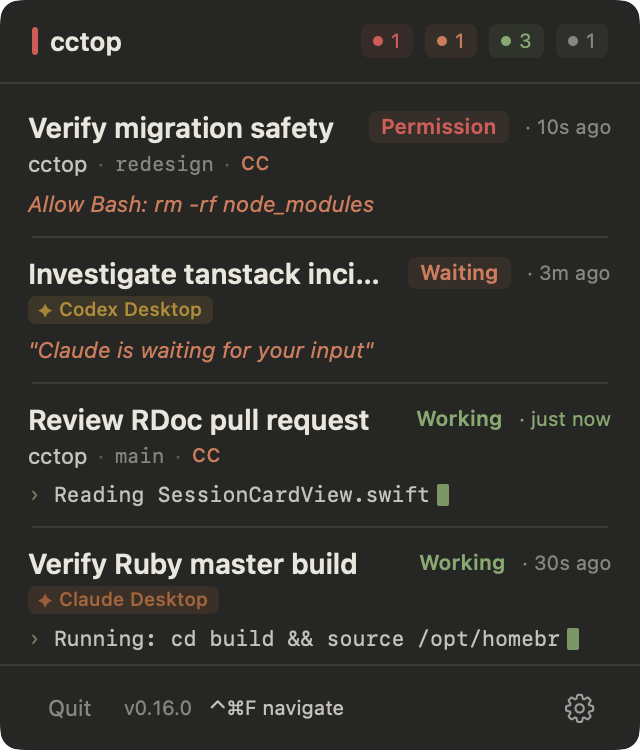
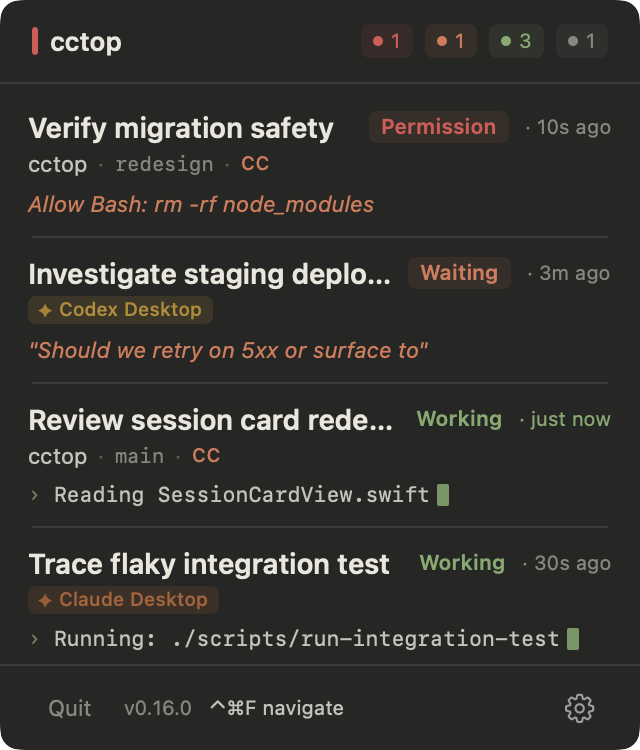
fix(showcase): genericize mock data and align Codex session with what Codex actually emits
A subagent audit caught three classes of problem in the screenshot
fixtures:

1. Real-world references that don't belong in marketing assets:
   - "Investigate tanstack incident" — names TanStack and alludes to a
     real CVE. Replaced with "Investigate staging deploy regression".
   - "Review RDoc pull request" — names Ruby's documentation tool.
     Replaced with "Review session card redesign".
   - "Verify Ruby master build" + chruby command — names Ruby and a
     specific Ruby version manager. Replaced with "Trace flaky
     integration test" and a generic integration-test script.
   - "goal-there-s-a-tanstack-security" project — replaced with
     "billing-api". "dazzling-dirac-0ac413" (reads as a Conductor
     worktree) replaced with "infra-tools".

2. Cross-agent inconsistency on the Codex Desktop session:
   - lastPrompt and notificationMessage were both set to "Claude is
     waiting for your input" — that's Claude Code's Notification hook
     template. The UI renders lastPrompt italicized as the *user's*
     last prompt, so the card was literally showing a Claude system
     message quoted as if the user typed it. Replaced with a plausible
     question that fits the new session name.

3. Wrong tool name on the Codex CLI session:
   - lastTool was "Bash" (Claude Code's name). Codex emits "local_shell"
     for its only tool-tracked event. Switched the mock to match
     reality, and added "local_shell" as an alias of "bash" in
[…]

diff --git a/menubar/CctopMenubar/Models/Session+Mock.swift b/menubar/CctopMenubar/Models/Session+Mock.swift
@@ -157,11 +157,10 @@ extension Session {
         // the pulsing amber "Waiting" pill is paired with the most distinctive
         // Desktop badge.
         var s2 = mock(
-            id: "2", project: "goal-there-s-a-tanstack-security", branch: "main",
-            sessionName: "Investigate tanstack incident",
+            id: "2", project: "billing-api", branch: "main",
+            sessionName: "Investigate staging deploy regression",
             status: .waitingInput,
-            lastPrompt: "Claude is waiting for your input",
-            notificationMessage: "Claude is waiting for your input",
+            lastPrompt: "Should we retry on 5xx or surface to the user?",
             terminal: TerminalInfo(bundleId: "com.openai.codex"),
             source: "codex"
         )
@@ -169,7 +168,7 @@ extension Session {
 
         var s3 = mock(
             id: "3", project: "cctop", branch: "main",
-            sessionName: "Review RDoc pull request",
+            sessionName: "Review session card redesign",
             status: .working, lastTool: "Read",
             lastToolDetail: "/src/SessionCardView.swift",
             source: "cc"
@@ -177,19 +176,22 @@ extension Session {
         // s3.lastActivity is Date() → "just now"
 
         var s4 = mock(
-            id: "4", project: "dazzling-dirac-0ac413", branch: "unknown",
-            sessionName: "Verify Ruby master build",
+            id: "4", project: "infra-tools", branch: "main",
+            sessionName: "Trace flaky integration test",
             status: .working, lastTool: "Bash",
-            lastToolDetail: "cd build && source /opt/homebrew/share/chruby/chruby.sh",
+            lastToolDetail: "./scripts/run-integration-tests.sh --filter staging",
             terminal: TerminalInfo(bundleId: "com.anthropic.claudefordesktop"),
             source: nil
         )
         s4.lastActivity = Date().addingTimeInterval(-30) // "30s ago"
 
+        // lastTool: "local_shell" matches what Codex actually emits (its only
+        // tool-tracked event). formatToolDisplay routes "local_shell" through
+        // the same "Running: ..." rendering as "bash".
         var s5 = mock(
-            id: "5", project: "terraform-infra", branch: "main",
-            status: .working, lastTool: "Bash",
-            lastToolDetail: "terraform plan -out=tfplan",
+            id: "5", project: "deploy-pipeline", branch: "main",
+            status: .working, lastTool: "local_shell",
+            lastToolDetail: "./scripts/deploy.sh --plan staging",
             source: "codex"
         )
         s5.lastActivity = Date().addingTimeInterval(-300) // "5m ago"

diff --git a/menubar/CctopMenubar/Models/Session.swift b/menubar/CctopMenubar/Models/Session.swift
@@ -409,7 +409,10 @@ struct Session: Codable, Identifiable, Equatable {
         guard let detail else { return "\(tool)..." }
         let fileName = URL(fileURLWithPath: detail).lastPathComponent
         switch tool.lowercased() {
-        case "bash": return "Running: \(detail.prefix(30))"
+        // "local_shell" is Codex's equivalent of Claude Code's Bash tool —
+        // route both through the same "Running: ..." formatting so Codex
+        // sessions don't show a raw "local_shell: ..." in the meta row.
+        case "bash", "local_shell": return "Running: \(detail.prefix(30))"
         case "edit": return "Editing \(fileName)"
         case "write": return "Writing \(fileName)"
         case "read": return "Reading \(fileName)"
